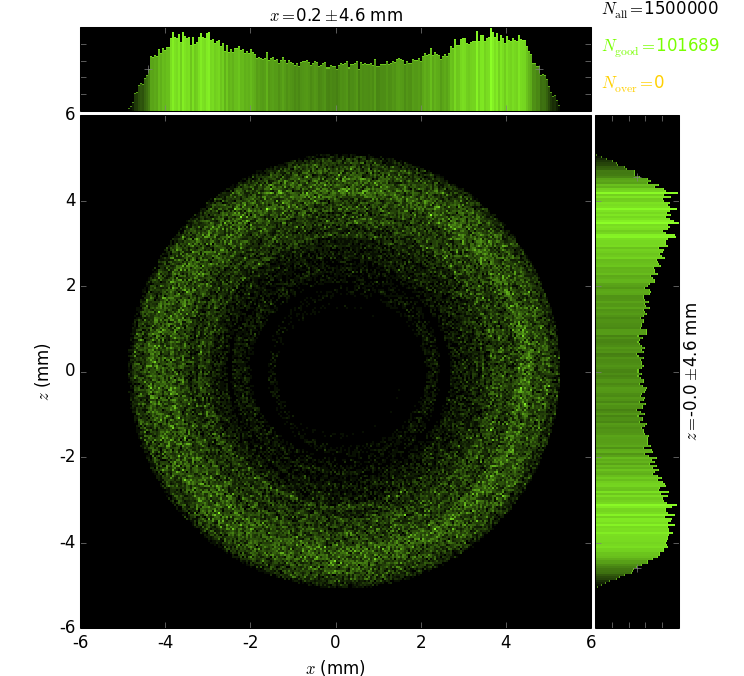
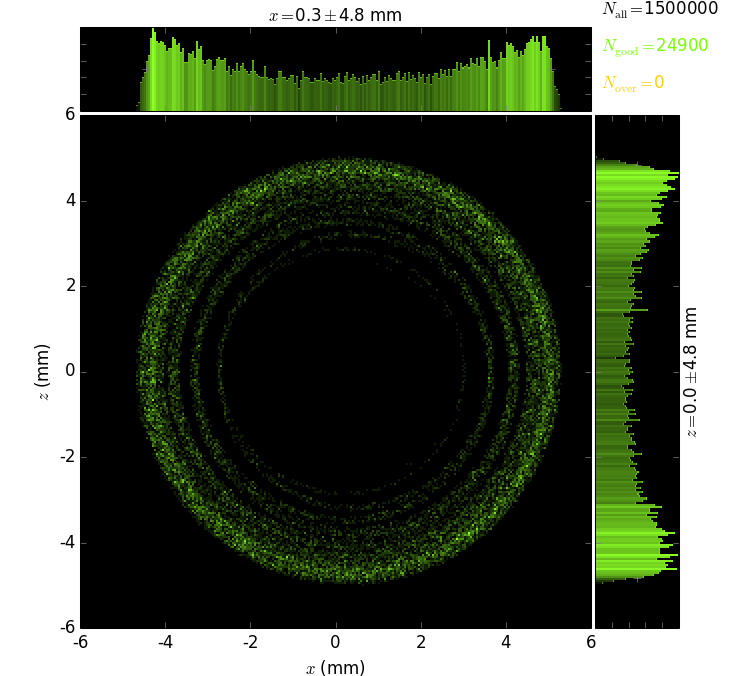
b0 = 0.30

diff --git a/StraightCapillary.py b/StraightCapillary.py
@@ -47,7 +47,7 @@ class StraightCapillary(roe.OE):
         s0 = self.f - self.rSample * np.cos(self.entranceAlpha)
         self.a0 = -np.tan(self.entranceAlpha) / 2 / s0
         self.b0 = 0.5*self.rSample * np.sin(self.entranceAlpha) - self.a0 * s0**2
-        self.b0 = 0.20
+        self.b0 = 0.3
         self.s0 = s0
         self.ar = (self.r0out-self.r0in) / s0
         self.br = self.r0in
